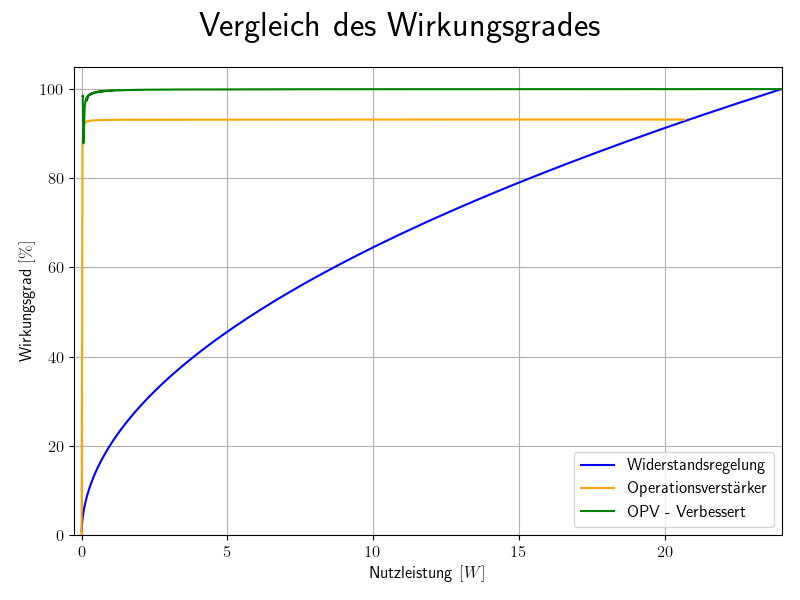
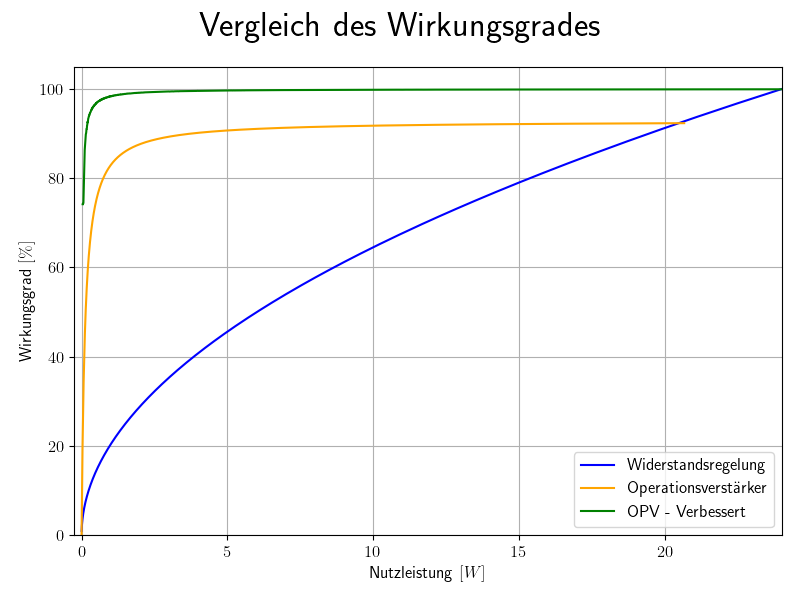
Das soll nun aber wirklich das letzte simulationsupdate gewesen sein ;))

Changed region(s): [[0.0938, 0.12, 0.875, 0.81]]

diff --git a/schaltungen-lt/plotting.py b/schaltungen-lt/plotting.py
@@ -174,17 +174,18 @@ gs4 = GridSpec(
 )
 ax41 = fig4.add_subplot(gs4[0, 0])
 ax42 = ax41.twinx()
-ax41.plot(a22vtrig, a22pr5, linewidth=lwidth, linestyle='-', color='blue', label=r"P_{R1}")
-ax41.plot(a22vtrig, a22pr4, linewidth=lwidth, linestyle='--', color='blue', label=r"P_{R2}")
-ax41.plot(a22vtrig, a22pr3, linewidth=lwidth, linestyle='.', color='blue', label=r"P_{R4}")
-ax41.plot(a22vtrig, a22pr2, linewidth=lwidth, linestyle='-.', color='blue', label=r"P_{R3}")
-ax42.plot(a22vtrig, a22pq1, linewidth=lwidth, linestyle='-', color='orange', label=r"P_{R5}")
+ax41.plot([(i + 4)*12.5 for i in a22vtrig], [1000*i for i in a22pr5], linewidth=lwidth, linestyle='-', color='blue', label=r"$P_{R1}$")
+ax41.plot([(i + 4)*12.5 for i in a22vtrig], [1000*i for i in a22pr4], linewidth=lwidth, linestyle='--', color='blue', label=r"$P_{R2}$")
+ax41.plot([(i + 4)*12.5 for i in a22vtrig], [1000*i for i in a22pr3], linewidth=lwidth, linestyle=':', color='blue', label=r"$P_{R4}$")
+ax41.plot([(i + 4)*12.5 for i in a22vtrig], [1000*i for i in a22pr2], linewidth=lwidth, linestyle='-.', color='blue', label=r"$P_{R3}$")
+ax42.plot([(i + 4)*12.5 for i in a22vtrig], a22pq1, linewidth=lwidth, linestyle='-', color='orange', label=r"$P_{Q1_{ds}}$")
+ax41.set_xlim(0, 100)
 ax41.set_xlabel(r"Einschaltdauer $[ \% ]$")
 ax41.set_ylabel(r"Verlustleistung $[ mW ]$", color='blue')
 ax42.set_ylabel(r"Verlustleistung $[ W ]$", color='orange')
 ax41.grid()
 ax41.legend()
-ax41.legend()
+ax42.legend()
 
 fig5 = plt.figure(dpi=100, figsize=(8, 6))
 fig5.set_constrained_layout(True)
@@ -193,19 +194,24 @@ gs5 = GridSpec(
     1,
     1
 )
+coef = np.polyfit([(i + 4)*12.5 for i in a23vtrig], [1000*i for i in a23pq1], 1)
+poly1d_fn = np.poly1d(coef) 
 ax51 = fig5.add_subplot(gs5[0, 0])
 ax52 = ax51.twinx()
-ax51.plot(a23vtrig, a23pr5, linewidth=lwidth, linestyle='-', color='blue', label=r"P_{R1}")
-ax51.plot(a23vtrig, a23pr4, linewidth=lwidth, linestyle='--', color='blue', label=r"P_{R2}")
-ax51.plot(a23vtrig, a23pr3, linewidth=lwidth, linestyle='.', color='blue', label=r"P_{R4}")
-ax51.plot(a23vtrig, a23pr2, linewidth=lwidth, linestyle='-.', color='blue', label=r"P_{R3}")
-ax52.plot(a23vtrig, a23pq1, linewidth=lwidth, linestyle='-', color='orange', label=r"P_{R5}")
-ax41.set_xlabel(r"Einschaltdauer $[ \% ]$")
-ax41.set_ylabel(r"Verlustleistung $[ mW ]$", color='blue')
-ax42.set_ylabel(r"Verlustleistung $[ W ]$", color='orange')
-ax41.grid()
-ax41.legend()
-ax41.legend()
+ax51.plot([(i + 4)*12.5 for i in a23vtrig], [1000*i for i in a23pr5], linewidth=lwidth, linestyle='-', color='blue', label=r"$P_{R1}$")
+ax51.plot([(i + 4)*12.5 for i in a23vtrig], [1000*i for i in a23pr4], linewidth=lwidth, linestyle='--', color='blue', label=r"$P_{R2}$")
+ax51.plot([(i + 4)*12.5 for i in a23vtrig], [1000*i for i in a23pr3], linewidth=lwidth, linestyle=':', color='blue', label=r"$P_{R4}$")
+ax51.plot([(i + 4)*12.5 for i in a23vtrig], [1000*i for i in a23pr2], linewidth=lwidth, linestyle='-.', color='blue', label=r"$P_{R3}$")
+ax52.plot([(i + 4)*12.5 for i in a23vtrig], poly1d_fn([(i + 4)*12.5 for i in a23vtrig]) , linewidth=lwidth, linestyle='-', color='orange', label=r"$P_{Q2_{ds}}$")
+ax51.set_xlim(0, 100)
+ax51.set_ylim(0, 7)
+ax52.set_ylim(0, 14)
+ax51.set_xlabel(r"Einschaltdauer $[ \% ]$")
+ax51.set_ylabel(r"Verlustleistung $[ mW ]$", color='blue')
+ax52.set_ylabel(r"Verlustleistung $[ mW ]$", color='orange')
+ax51.grid()
+ax51.legend()
+ax52.legend()
 
 fig1.tight_layout()
 fig2.tight_layout()

diff --git a/schaltungen-lt/simulation.py b/schaltungen-lt/simulation.py
@@ -1,3 +1,4 @@
+
 from PyLTSpice.sim_batch import SimCommander
 from PyLTSpice import SpiceEditor
 
@@ -59,8 +60,8 @@ def create_netlists():
         net.add_instructions(
             ".param Vtrig=0",
             ".step param Vtrig -4 4 2",
-            ".meas pheiz AVG I(R1)*(V(R11)-V(R12))",
-            ".meas pverlust AVG I(R5)*(V(R51)-V(R52))+I(R4)*(V(R41)-V(R42))+I(R3)*V(R23)+I(R2)*V(R23)+I(R1)*V(R12)",
+            ".meas pheiz AVG ABS(I(R1)*(V(R11)-V(R12)))",
+            ".meas pverlust AVG ABS(I(R5)*(V(R51)-V(R52)))+ABS(I(R4)*(V(R41)-V(R42)))+ABS(I(R3)*V(R23))+ABS(I(R2)*V(R23))+ABS(I(R1)*V(R12))",
             ".meas n PARAM pheiz/(pheiz+pverlust)",
             ".tran 0 100m 0 1u"
         )
@@ -72,13 +73,13 @@ def create_netlists():
         net.add_instructions(
             ".param Vtrig=0",
             ".step param Vtrig list {vals}".format(vals=' '.join(str(i) for i in 8*(np.logspace(0, 1, 1000)-1)/9 - 4)),
-            ".meas pheiz AVG I(R1)*(V(R11)-V(R12))",
-            ".meas pverlust AVG I(R5)*(V(R51)-V(R52))+I(R4)*(V(R41)-V(R42))+I(R3)*V(R23)+I(R2)*V(R23)+I(R1)*V(R12)",
-            ".meas pr5 AVG I(R5)*(V(R51)-V(R52))",
-            ".meas pr4 AVG I(R4)*(V(R41)-V(R42))",
-            ".meas pr3 AVG I(R3)*V(R23)",
-            ".meas pr2 AVG I(R2)*V(R23)",
-            ".meas pq1 AVG I(R1)*V(R12)",
+            ".meas pheiz AVG ABS(I(R1)*(V(R11)-V(R12)))",
+            ".meas pverlust AVG ABS(I(R5)*(V(R51)-V(R52)))+ABS(I(R4)*(V(R41)-V(R42)))+ABS(I(R3)*V(R23))+ABS(I(R2)*V(R23))+ABS(I(R1)*V(R12))",
+            ".meas pr5 AVG ABS(I(R5)*(V(R51)-V(R52)))",
+            ".meas pr4 AVG ABS(I(R4)*(V(R41)-V(R42)))",
+            ".meas pr3 AVG ABS(I(R3)*V(R23))",
+            ".meas pr2 AVG ABS(I(R2)*V(R23))",
+            ".meas pq1 AVG ABS(I(R1)*V(R12))",
             ".meas n PARAM pheiz/(pheiz+pverlust)",
             ".tran 0 20m 0 10u"
         )
@@ -90,13 +91,13 @@ def create_netlists():
         net.add_instructions(
             ".param Vtrig=0",
             ".step param Vtrig list {vals}".format(vals=' '.join(str(i) for i in 8*(np.logspace(0, 1, 1000)-1)/9 - 4)),
-            ".meas pheiz AVG I(R1)*(V(R11)-V(R12))",
-            ".meas pverlust AVG I(R5)*(V(R51)-V(R52))+I(R4)*(V(R41)-V(R42))+I(R3)*V(R23)+I(R2)*V(R23)+I(R1)*V(R12)",
-            ".meas pr5 AVG I(R5)*(V(R51)-V(R52))",
-            ".meas pr4 AVG I(R4)*(V(R41)-V(R42))",
-            ".meas pr3 AVG I(R3)*V(R23)",
-            ".meas pr2 AVG I(R2)*V(R23)",
-            ".meas pq1 AVG I(R1)*V(R12)",
+            ".meas pheiz AVG ABS(I(R1)*(V(R11)-V(R12)))",
+            ".meas pverlust AVG ABS(I(R5)*(V(R51)-V(R52)))+ABS(I(R4)*(V(R41)-V(R42)))+ABS(I(R3)*V(R23))+ABS(I(R2)*V(R23))+ABS(I(R1)*V(R12))",
+            ".meas pr5 AVG ABS(I(R5)*(V(R51)-V(R52)))",
+            ".meas pr4 AVG ABS(I(R4)*(V(R41)-V(R42)))",
+            ".meas pr3 AVG ABS(I(R3)*V(R23))",
+            ".meas pr2 AVG ABS(I(R2)*V(R23))",
+            ".meas pq1 AVG ABS(I(R1)*V(R12))",
             ".meas n PARAM pheiz/(pheiz+pverlust)",
             ".tran 0 20m 0 10u"
         )
